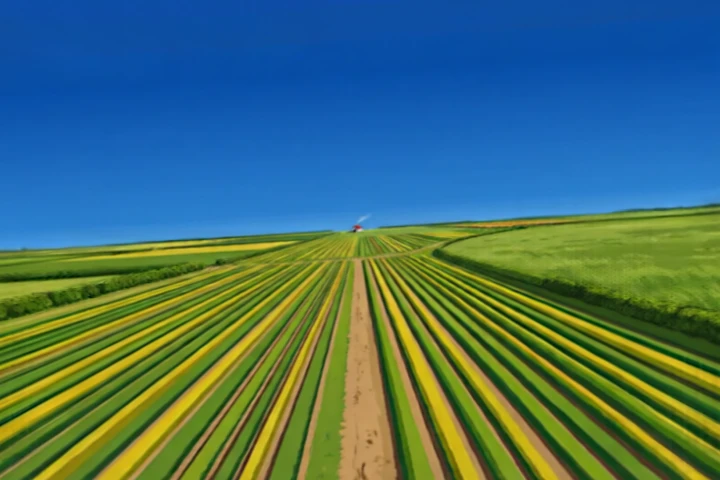
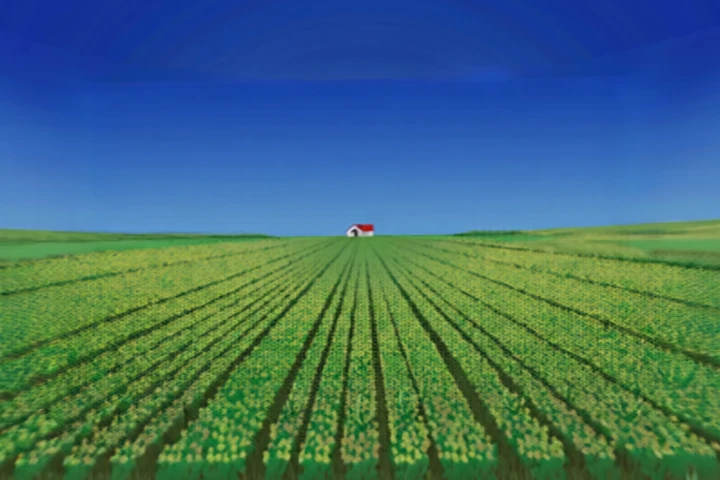
Rebuild the farmland world with the house on the horizon
The first attempt put the house mid-field with a track running to it. The
cause was the anchor image, not the wording: of the two framings sent, the one
where the house filled 8.4% of the frame anchored the generation, and Mint
composes a world to match its anchor. This run anchors on the wider framing,
cropped and with its black vignette corners filled by edge replication, where
the house is 5.0% of the frame, and forbids any path or fence leading toward
it.

Worlds can now set spawnFacing in degrees. The automatic sweep picks the
longest clear sightline, which is meaningless in an open field, so the farmland
opens looking at the house instead of away from it.

diff --git a/src/main.ts b/src/main.ts
@@ -468,8 +468,15 @@ class App {
       new THREE.Vector3(center.x, Math.min(top, center.y + 2), center.z),
       new THREE.Vector3(center.x, top, center.z),
     ];
-    const floorY = this.controller.spawnAt(candidates, SPAWN_FACING_YAW);
-    const openDistance = this.controller.faceMostOpenDirection();
+    // A world can name its opening view when the automatic sweep, which just
+    // picks the longest clear line of sight, faces the wrong way in open ground.
+    const facing = this.currentWorld?.spawnFacing;
+    const floorY = this.controller.spawnAt(
+      candidates,
+      facing === undefined ? SPAWN_FACING_YAW : THREE.MathUtils.degToRad(facing),
+    );
+    const openDistance =
+      facing === undefined ? this.controller.faceMostOpenDirection() : -1;
     const size = session.bounds.getSize(new THREE.Vector3());
     console.info(
       "[world] collider bounds %s×%s×%s, floor at %s, eye at %s, open view %sm | load splat %sms, collider %sms, boundsTree %sms, total %sms",
@@ -478,7 +485,7 @@ class App {
       size.z.toFixed(2),
       floorY === null ? "none" : floorY.toFixed(2),
       this.camera.position.y.toFixed(2),
-      openDistance.toFixed(1),
+      openDistance < 0 ? `fixed ${facing}deg` : openDistance.toFixed(1),
       session.timing.splatMs,
       session.timing.colliderMs,
       session.timing.boundsTreeMs,

diff --git a/src/registry.ts b/src/registry.ts
@@ -17,6 +17,8 @@ export interface WorldEntry {
   sourceImages: string[];
   /** The user's own guidance on how the world should look. */
   lookPrompt?: string;
+  /** Opening view in degrees, when the automatic sweep faces the wrong way. */
+  spawnFacing?: number;
   runtimeUrl: string;
   colliderUrl: string;
 }
@@ -42,6 +44,7 @@ export interface PendingWorld {
 export interface WorldConfig extends WorldPhotoSource {
   title?: string;
   lookPrompt?: string;
+  spawnFacing?: number;
   status?: PendingStatus;
   note?: string;
 }
@@ -96,6 +99,7 @@ export function listReadyWorlds(config: WorldConfigMap = bundledWorldConfig): Wo
         sourceImage: photos[0],
         sourceImages: photos,
         lookPrompt: extra.lookPrompt,
+        spawnFacing: extra.spawnFacing,
         runtimeUrl: asset.runtime?.runtimeUrl?.trim() ?? "",
         colliderUrl: asset.runtime?.collider?.runtimeUrl?.trim() ?? "",
       };

diff --git a/GENERATION.md b/GENERATION.md
@@ -190,6 +190,37 @@ side and the credits are already spent. Stop is for "I do not want this in my
 app", not for "refund me". A stopped world can be found later in the Mint chat
 if you change your mind.
 
+## Framing the opening view
+
+The app opens facing whichever direction has the longest clear line of sight.
+In a room that lands well. In open country it is arbitrary, and the subject can
+end up behind the player.
+
+Set `spawnFacing` in `worlds.config.json` to a compass bearing in degrees to
+override it. The automatic sweep is skipped when it is present, and the load
+line reports `fixed <n>deg` instead of an open-view distance.
+
+```json
+"farmland": { "title": "Farmland", "spawnFacing": 180 }
+```
+
+Find the right bearing by entering the world, turning until the subject is
+centred, and reading the yaw the app reports.
+
+## Distance is set by the anchor image, not the prompt
+
+Mint composes a world to match its anchor. If the subject should look far away,
+the anchor must already show it far away: wording alone loses to the picture.
+When two framings of one scene are available, anchor on the one where the
+subject is smallest, and do not send a closer framing as a second reference,
+because the two disagree on the very thing being controlled.
+
+Measure it rather than eyeballing: the farmland anchor went from the subject
+occupying 8.4% of frame width to 5.0%, and that single change moved the house
+from mid-field to the horizon. Also forbid paths, tracks and fence lines
+leading to a distant subject, since one of those makes it read as a
+destination however small it is.
+
 ## Check the result
 
 Entering a world logs its collider size to the browser console:
